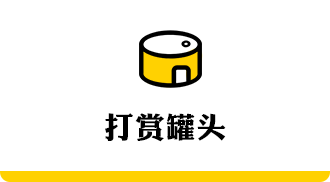
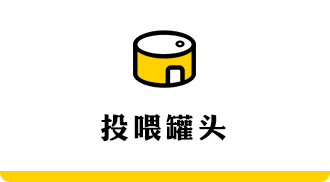
去掉打赏字样

Changed region(s): [[0.3939, 0.1648, 0.6364, 0.4945], [0.303, 0.6044, 0.697, 0.7967]]

diff --git a/miniprogram/config.js b/miniprogram/config.js
@@ -23,7 +23,7 @@ module.exports = {
   ad_genealogy_banner: "adunit-9a7dcb84fe2c4db1",
   // 识猫banner广告
   ad_recognize_banner: "adunit-1b69cda0d1b8c703",
-  // 打赏video广告
+  // 投喂video广告
   ad_reward_video: "adunit-eac4513e7b770f93",
 
   // 猫猫领养状态字符串，对应数据库cat.adopt中的数字下标
@@ -140,11 +140,11 @@ module.exports = {
     },
     // 赞赏页，pages/info/reward/reward
     reward: {
-      share_tip: "打赏罐头",
+      share_tip: "投喂罐头",
       ad_success_tip: "多谢喵(ฅ'ω'ฅ)!",
       ad_fail_tip: "没播完喵...",
-      reward_tip_title: "打赏罐头",
-      reward_tip: "您的捐款及广告收入将用作猫猫救助，每月的收支都会在“笃行志愿服务队”公众号进行公开，感谢您对中大流浪猫的帮助与支持！\n喵(^･ｪ･^)",
+      reward_tip_title: "投喂罐头",
+      reward_tip: "您的投喂及广告收入将用作猫猫救助，每月的收支都会在“笃行志愿服务队”公众号进行公开，感谢您对中大流浪猫的帮助与支持！\n喵(^･ｪ･^)",
       reward_count_tip: "* 每月统计一次，在公众号公示，多谢晒（鞠躬）",
       reward_title: "爱心捐款",
     },

diff --git a/miniprogram/pages/manage/rewards/rewards.js b/miniprogram/pages/manage/rewards/rewards.js
@@ -44,7 +44,7 @@ Page({
 
   loadRewards() {
     wx.showLoading({
-      title: '加载打赏记录中',
+      title: '加载投喂记录中',
     })
     const that = this;
     const db = wx.cloud.database();

diff --git a/README.md b/README.md
@@ -104,7 +104,7 @@
 - [ ] 在云存储中创建`系统`文件夹，上传`initDatabase/系统图片`中的所有图片
 - [ ] 替换`miniprogram/config.js`中的图片链接为刚刚上传的文件的**File ID**
 
-期望：部署检查的第4项“系统云储存图片”状态为通过。并且，科普页、打赏页的赞赏码、反馈页新猫问卷的图片可以显示，则说明替换成功。当部署检查的所有项都通过后，请点击编译按钮旁边的“部署指引”，切换回“普通编译”。
+期望：部署检查的第4项“系统云储存图片”状态为通过。并且，科普页、投喂页的赞赏码、反馈页新猫问卷的图片可以显示，则说明替换成功。当部署检查的所有项都通过后，请点击编译按钮旁边的“部署指引”，切换回“普通编译”。
 
 ### 赋予管理员权限（无需手动操作）
 
